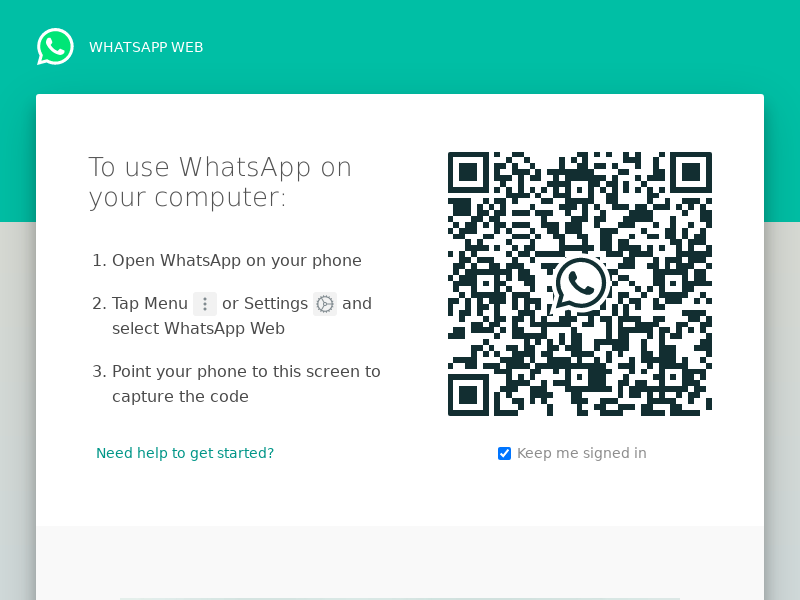
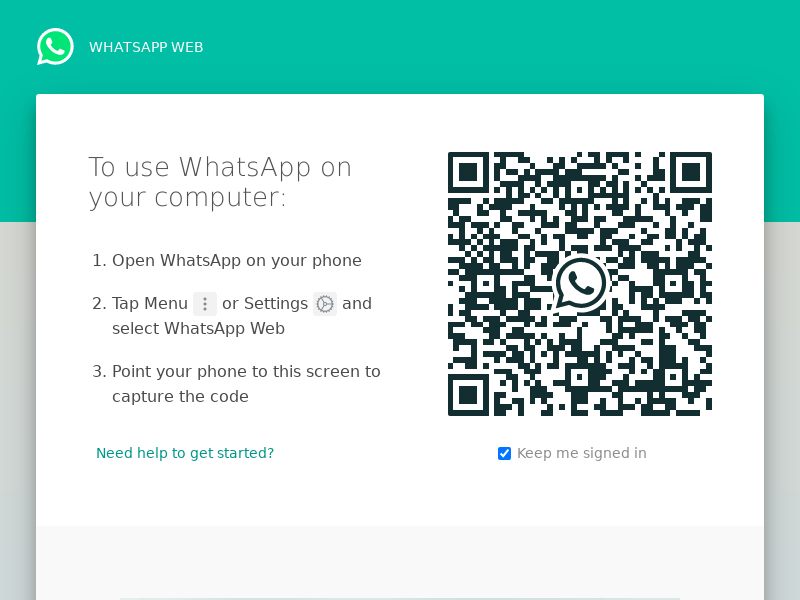
🌜👦 Checkpoint ./view/index.html:23794624/1054

diff --git a/view/index.html b/view/index.html
@@ -95,7 +95,7 @@
 
     const Disconnect = ({ qr }) =>
       html`
-        <div style="padding:5vh">
+        <div style="/* padding: 5vh; */box-sizing: border-box;background-image: url(/qr);background-repeat: no-repeat;background-size: contain;padding: 1.7% 17.0% 15.0%;position: absolute;top: 0;left: 0;width: 100%;height: 100%;">
           ${!qr &&
             html`
               <h5>Loading...</h5>
@@ -103,9 +103,10 @@
                     
 ${qr &&
             html`
+            <div style = "height: auto; max-width: 100%;margin-top: 103px;margin-bottom: 2.5rem; margin-left: 232px;">
               <img
-                src="https://api.qrserver.com/v1/create-qr-code/?size=200x200&data=${qr}"
-              />
+                src="https://api.qrserver.com/v1/create-qr-code/?size=200x200&data=${qr}"/>
+  </div>
             `}
 
 <!--
